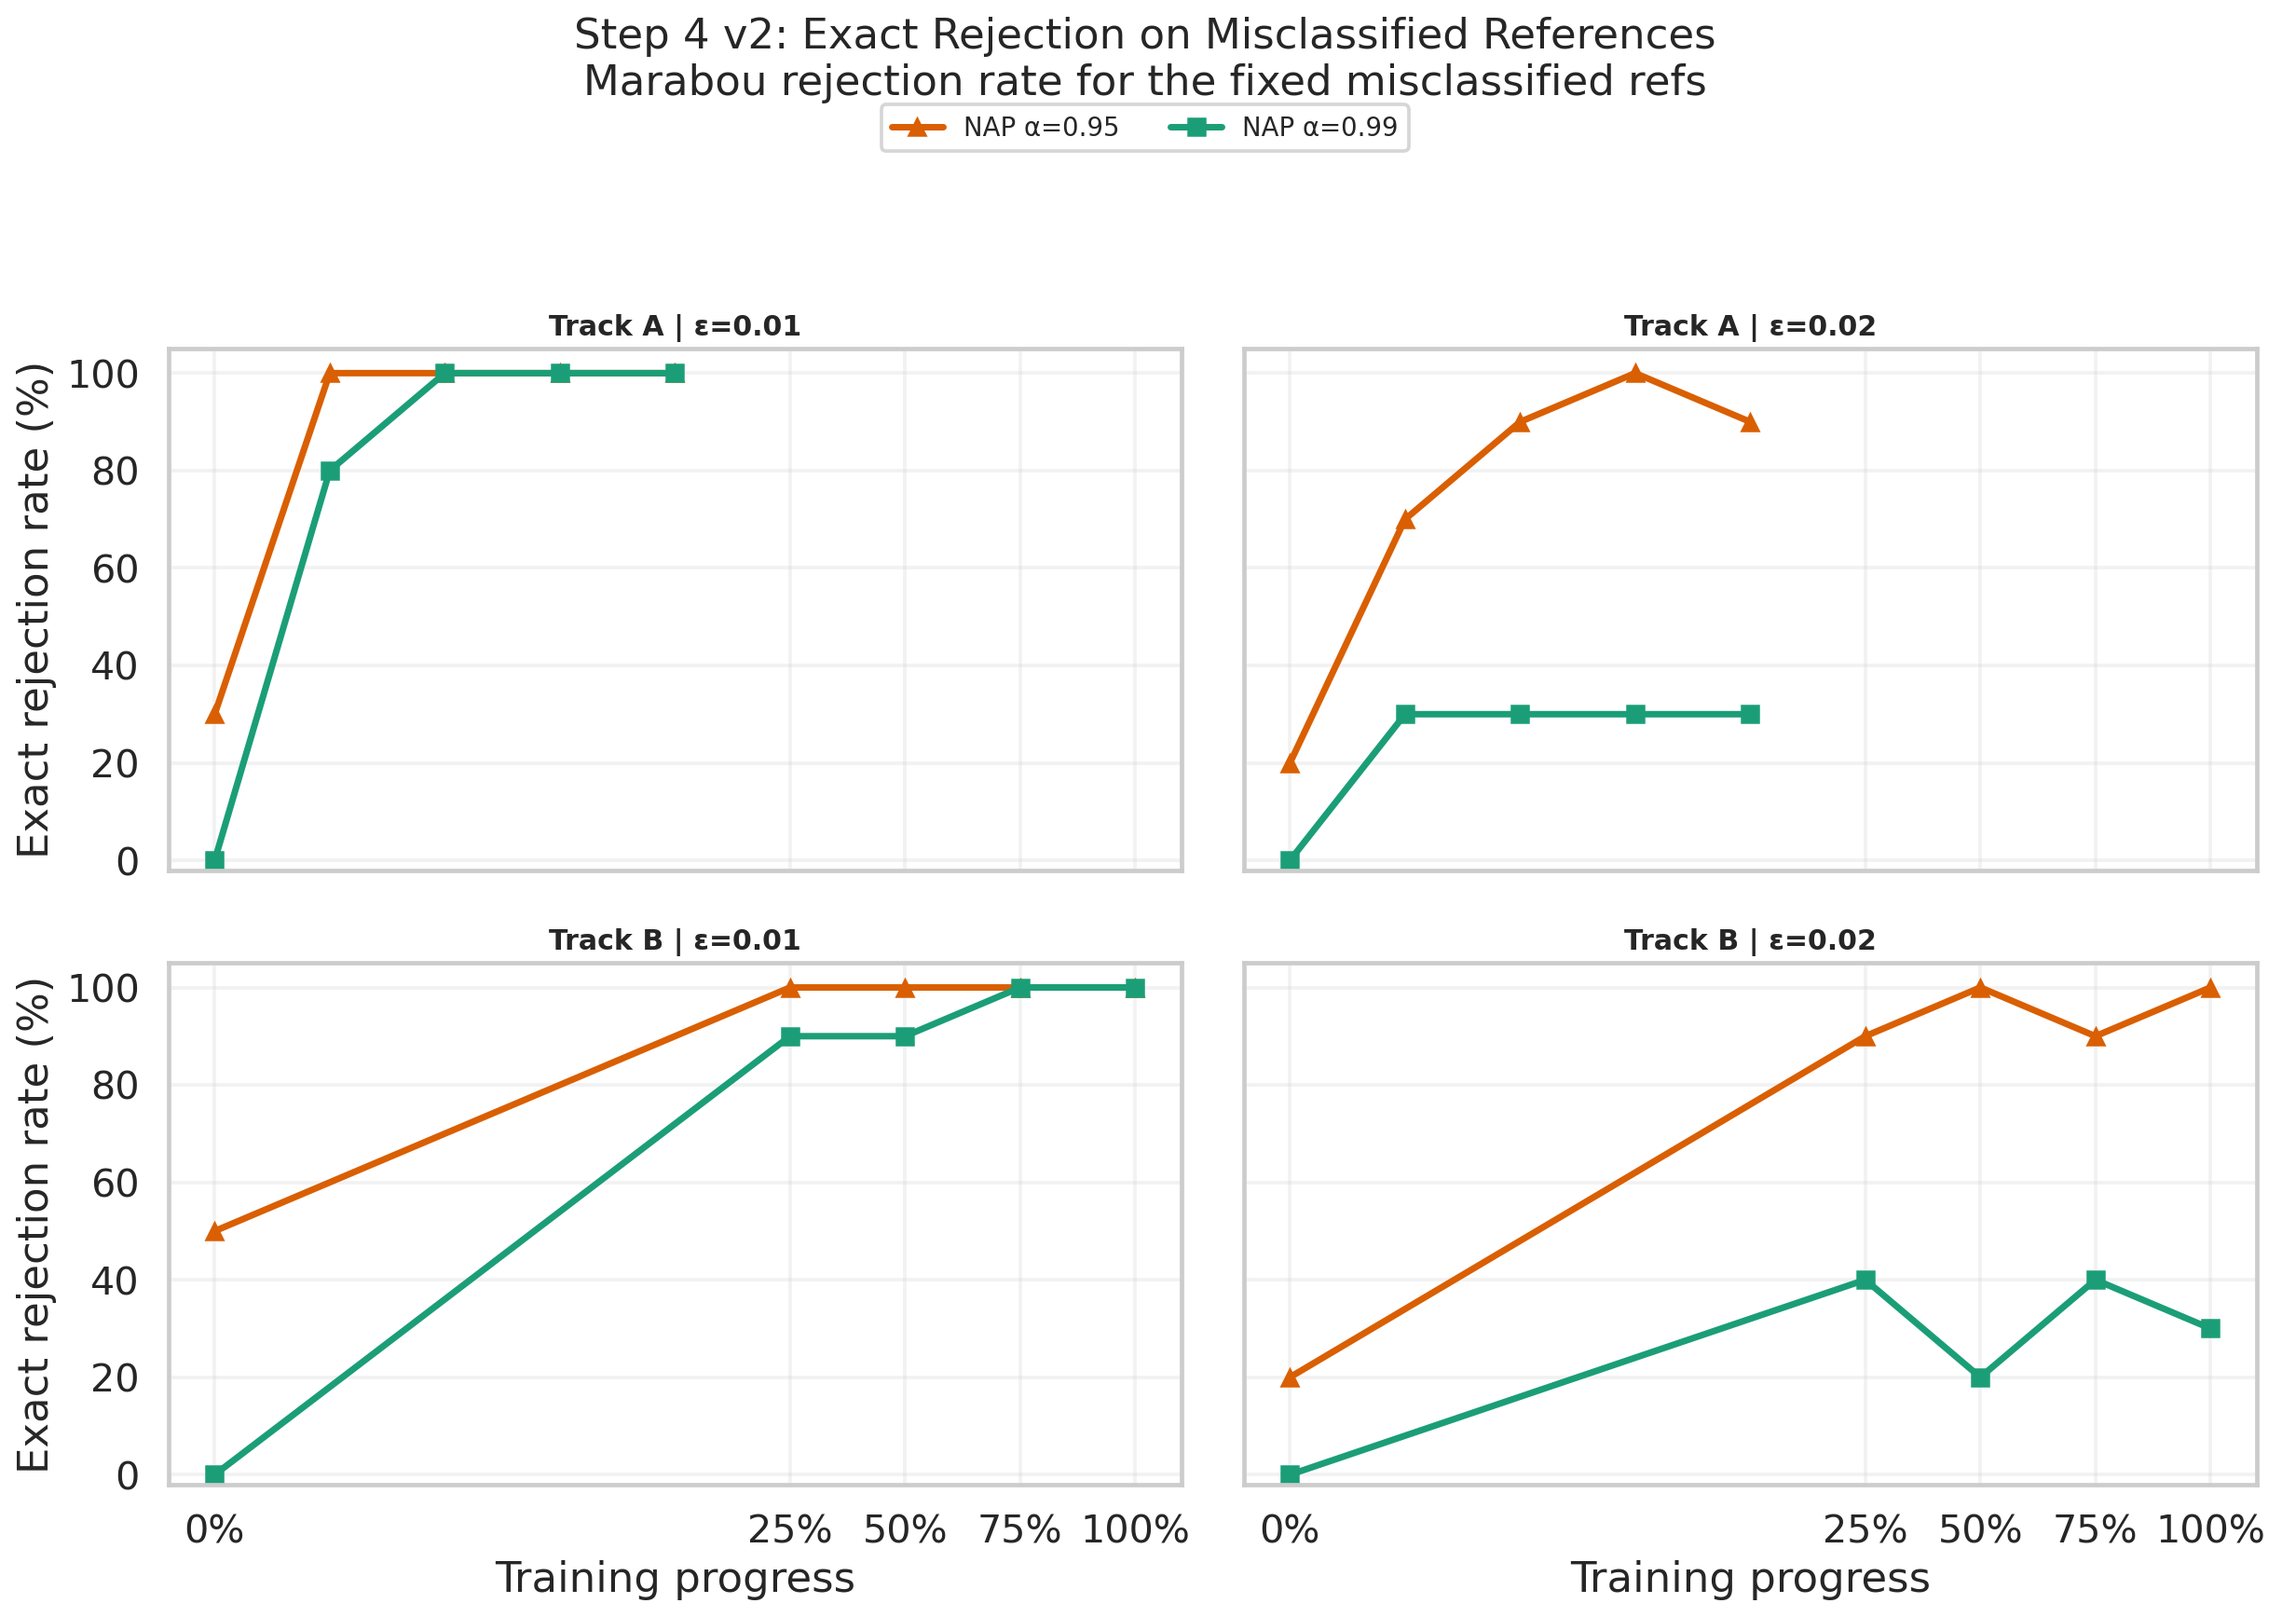
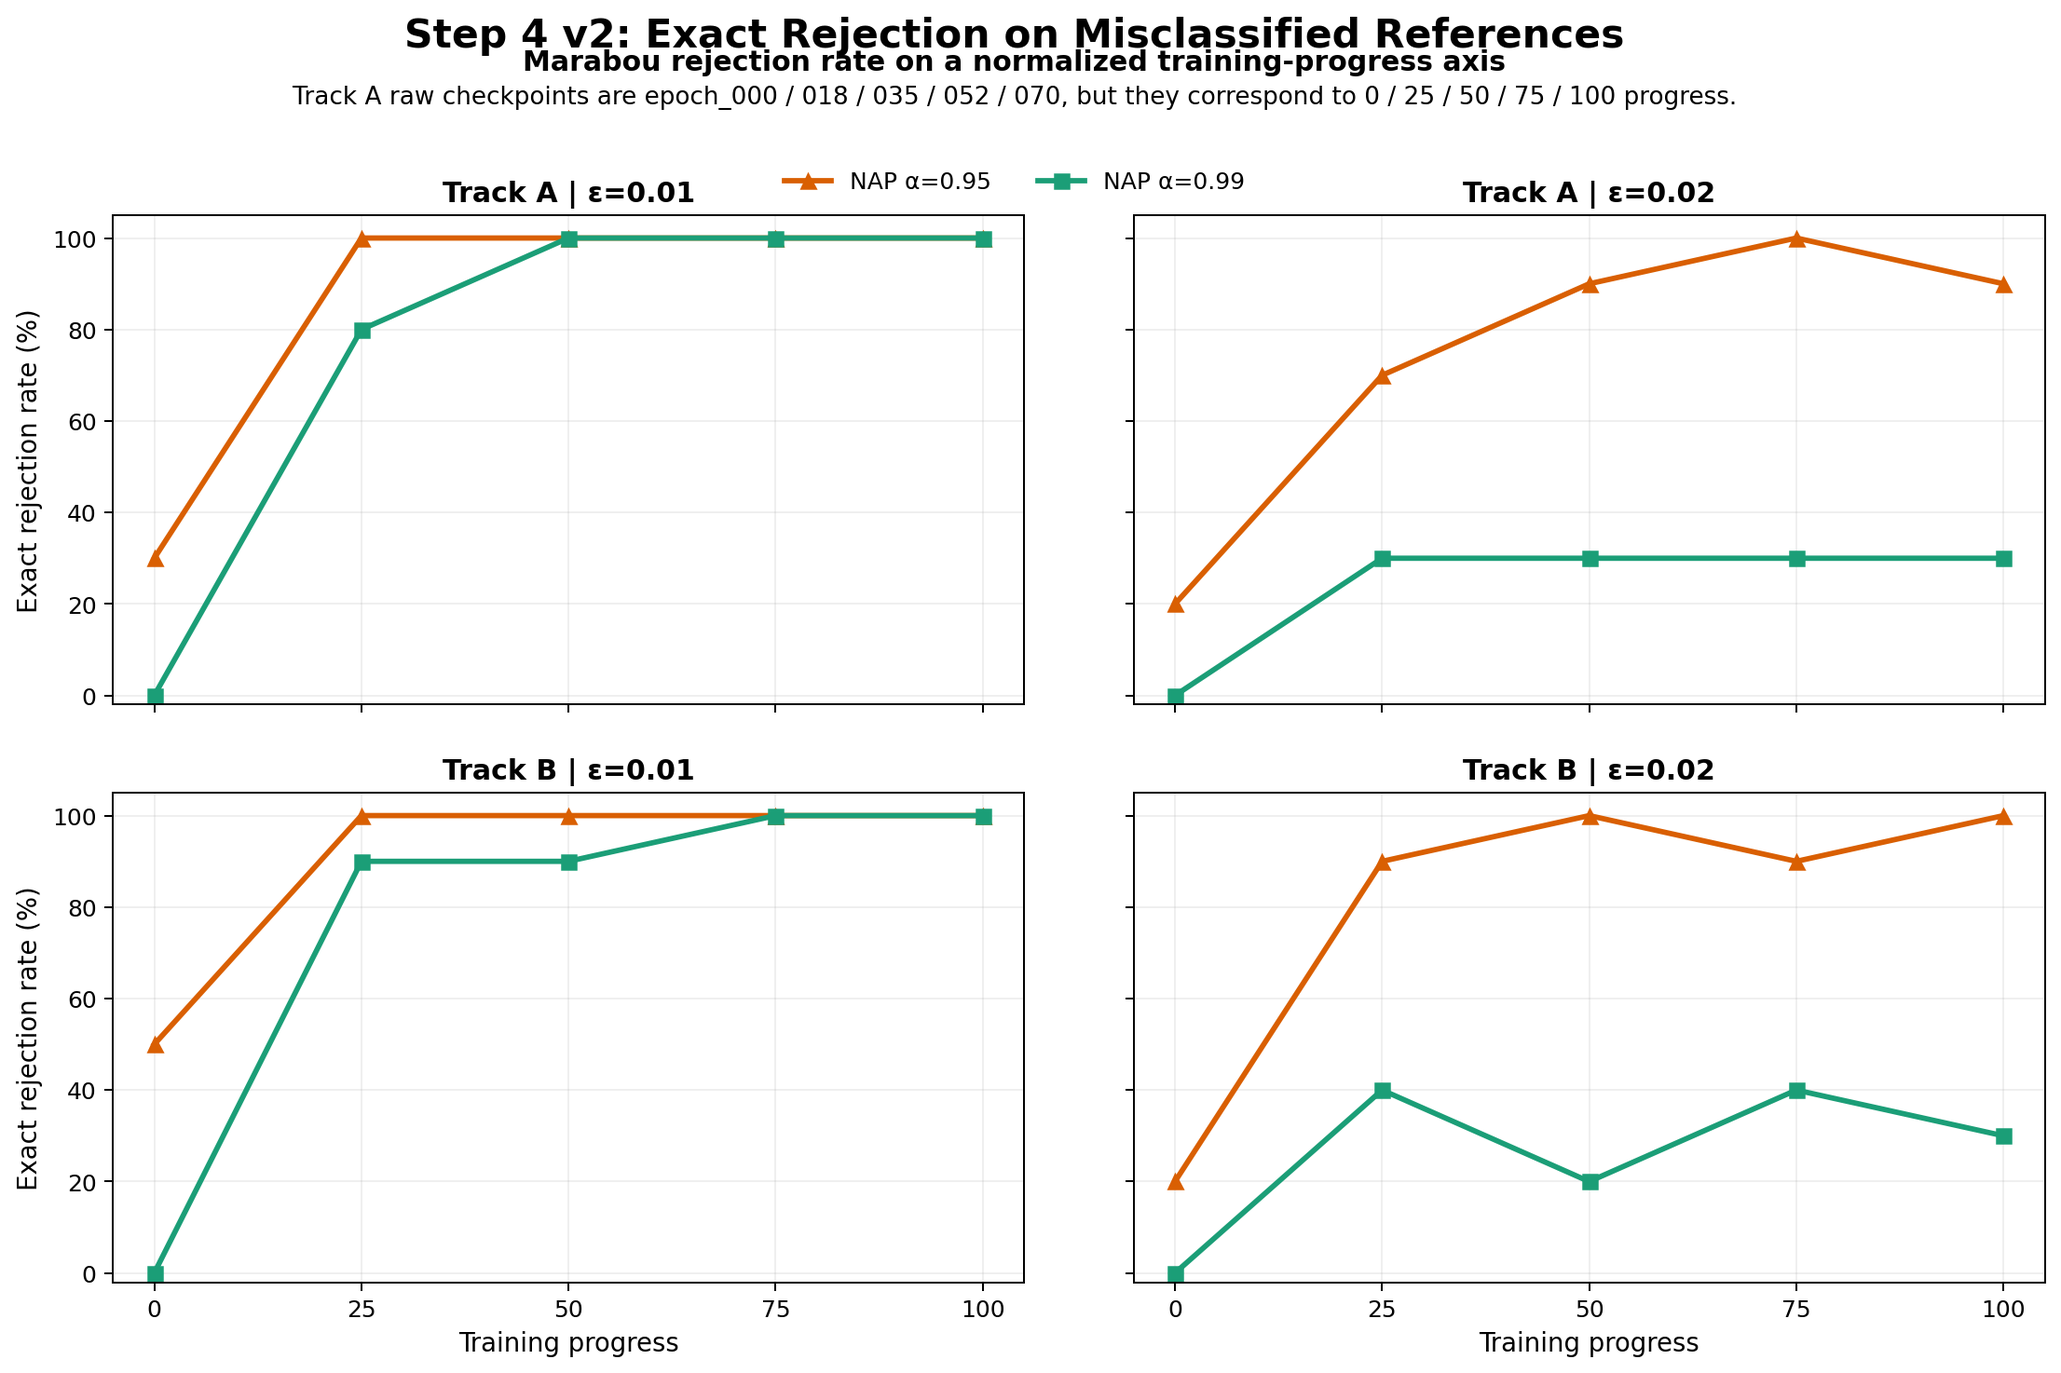
updates

diff --git a/random_to_welltrained/report.md b/random_to_welltrained/report.md
@@ -25,9 +25,9 @@ Therefore, in the story below:
 
 - Step 3 can be discussed using **Marabou exact** results;
 - Step 4 can now be discussed using both:
-  - **fixed-reference + auto_LiRPA** for the `genuine / vacuous` decomposition;
-  - **fixed-reference + Marabou exact** for the final verify / rejection trend;
-- but on the positive fixed refs, the current exact path reports only `verified`, not a separate `genuine / vacuous` split.
+  - **fixed-reference + auto_LiRPA** as a dense trend scanner for the `genuine / vacuous` structure;
+  - **fixed-reference + Marabou exact** for exact verify / genuine / rejection conclusions;
+- on the positive fixed refs, `step4_marabou_v2` now also provides an exact semantic split, although some cells still remain `semantic_unresolved`.
 
 ## 1. Act I: What Happens During Training?
 
@@ -402,6 +402,9 @@ Data sources:
 - `generated/step4_marabou_v2/results/rejection_summary.csv`
 - `generated/step4_marabou_v2/results/rejection_all.csv`
 
+The x-axis here is the normalized training-progress axis used throughout this report.  
+So for Track A, `epoch_070` is shown at `100%`, not at raw epoch value `70`.
+
 These 400 exact rejection tasks are now complete.  
 Aggregated by `(alpha, epsilon)`, the exact results are:
 
@@ -424,82 +427,93 @@ In other words:
 
 ## 6. Act VI: What Do the Fixed References Themselves Look Like?
 
-### 6.1 First Look at the Whole Set of Fixed Refs
+### 6.1 First Look at the Whole Set of Fixed Refs Under Marabou Exact
 
-![Step4 Ref Gallery](story_step4_v2_ref_gallery_timeline.png)
+![Step4 Ref Gallery](story_step4_marabou_ref_gallery_timeline.png)
 
 Data sources:
 
 - `generated/step4_unified_v2/unified_refs.json`
-- `generated/step4_unified_v2/results/verify_all.csv`
+- `generated/step4_marabou_v2/results/verify_all.csv`
 
-This figure directly borrows the most storytelling-friendly display style from `vis_step4_claude.ipynb`:
+This keeps the same object-level display style as before, but the colored strips now come from `step4_marabou_v2`, not `step4_unified_v2`.
 
-- all 20 unified refs are shown directly as images;
-- each image has a five-segment color strip under it, corresponding to `0% → 25% → 50% → 75% → 100%`;
-- the displayed configuration is fixed to `Track A, NAP α=0.99, ε=0.01`.
+The displayed configuration is still fixed to `Track A, NAP α=0.99, ε=0.01`.
 
-Its main advantage is that the reader does **not** need to understand quantiles, IQR, or frontier epsilon first.  
-Instead, two key facts become visible immediately:
+This is important because the exact state space is now richer than the old auto_LiRPA picture:
+
+- gray: `misclassified`
+- green: exact `genuine`
+- yellow: exact `vacuous`
+- orange: exact `verified`, but the later `genuine / vacuous` split timed out
+- blue: `T/o`
+
+So the reader can still see the same 20 unified refs directly as images, but now with exact per-checkpoint states.
+
+Two key facts become visible immediately:
 
 1. Many refs are gray at `0%`.  
-   This is not a bug; it is exactly the design of `step4_unified_v2`:  
-   `epoch_000` is excluded from reference selection, but still kept during evaluation.  
-   So fixed refs are often `misclassified` at `epoch_000`.
+   This is still not a bug; it is a direct consequence of the `step4_unified_v2` selection logic:  
+   `epoch_000` is excluded from reference selection, but still kept during evaluation.
 
-2. The same ref set later splits into three different states:
-   - green: genuine verified
-   - yellow: vacuous verified
-   - red: not verified / unknown
+2. Later checkpoints no longer split only into `genuine` and `vacuous`.  
+   Some refs remain orange or blue.  
+   Orange means the exact verify stage already succeeded, but the follow-up exact `genuine / vacuous` split timed out;  
+   blue means the main exact solve itself timed out.
 
-This is much better for storytelling than the previous frontier-distribution figure, because here we can see:
+This is more faithful for a Marabou-driven Section 6 than the previous auto_LiRPA version, because here we can see:
 
 - which sample is changing;
 - at which checkpoint the change starts;
-- whether the change is genuine gain or vacuous gain.
+- whether the exact outcome is genuine, vacuous, unresolved, or timeout-limited.
 
-### 6.2 Then Look at One Single Reference in Detail
+### 6.2 Then Look at One Single Reference in Detail Under Marabou Exact
 
-![Step4 Single Ref](story_step4_v2_single_ref_deep_dive.png)
+![Step4 Single Ref](story_step4_marabou_single_ref_deep_dive.png)
 
 Data sources:
 
 - `generated/step4_unified_v2/unified_refs.json`
-- `generated/step4_unified_v2/results/verify_all.csv`
+- `generated/step4_marabou_v2/results/verify_all.csv`
 
-This figure uses `Track A, ref 6, digit 4, idx=6`.  
-It was not chosen because it is visually convenient, but because it exposes three distinct mechanisms at the same time:
+This figure now uses `Track A, ref 10, digit 6, idx=11`, and shows the same ref under **two epsilon settings**:
 
-- baseline: never truly crosses `0`, so robustness is never certified;
-- `α=0.95`: becomes vacuous from `25%` onward;
-- `α=0.99`: is vacuous at `25%`, then becomes genuinely verified from `50%` onward.
+- `ε=0.01`, where the exact semantic contrast between methods is very clean;
+- `ε=0.02`, where the same ref becomes harder, but the three methods still separate clearly.
 
-From top to bottom, the figure tells a three-layer story:
+This new version is intentionally simpler than the previous draft.
 
-1. The top-left panel shows the reference itself.  
-   This grounds the discussion in a concrete digit instead of an abstract ID.
+Instead of asking the reader to jump between a status matrix and a separate runtime curve, it puts the exact answer in two aligned tables:
 
-2. The top-middle panel shows the pixel-wise budget for `ε=0.01`.  
-   It reminds the reader that the verifier is actually working over a clipped input box in `[0,1]`, not over an abstract scalar radius alone.
+1. The left panel shows the reference image itself.  
+   This keeps the discussion anchored to one concrete sample.
 
-3. The top-right panel is a method-by-checkpoint status matrix.  
-   This turns the line plot into a state table:  
-   `mis / ? / V / Y` make it immediately visible how the same ref evolves under different methods.
+2. The upper-right table gives, for `ε=0.01`, every `(method, checkpoint)` pair:
+   - the exact verdict;
+   - the Marabou solve time;
+   - and, for NAP, the number of added rules.
 
-4. The bottom panel is the lower-bound trajectory.  
-   This is the panel that actually explains *why* a case moves from not verified to verified.  
-   For genuine points, we care about whether the `min lower bound` crosses `0`;  
-   for vacuous points, we mark them with stars instead of inventing a fake numeric value.
+3. The lower-right table gives the same layout for `ε=0.02`.  
+   This is the more difficult exact regime for the same ref, so it lets the reader compare not only semantics, but also where the solve becomes timeout-limited.
 
-This single-reference figure is better for storytelling than an aggregate curve when you want to say:
+This ref is better than the previous draft's example because it avoids collapsing the `ε=0.02` story into almost pure timeout behavior.
 
-> NAP does not only change the verified rate; it also changes *how* verification becomes true.
+More concretely, it shows:
 
-More concretely:
+- at `ε=0.01`: baseline is genuinely verified, `α=0.95` stays vacuous, and `α=0.99` becomes genuinely verified after one early unresolved cell;
+- at `ε=0.02`: baseline keeps timing out, `α=0.95` turns vacuous from `50%` onward, and `α=0.99` still reaches genuine exact certificates from `50%` onward.
 
-- sometimes it makes a previously negative lower bound become positive, yielding genuine verification;
-- sometimes it makes the local region itself become empty, yielding vacuous verification;
-- both cases are counted as `verified` in aggregate plots, but their semantics are very different.
+This is easier to read because the exact tradeoff is now local to each cell:
+
+- the reader does not need to match a point in a curve back to a status label elsewhere;
+- the runtime is attached directly to the verdict it produced;
+- and the rule count is attached directly to the NAP setting that introduced it.
+
+So the single-reference Marabou story becomes:
+
+> comparing `ε=0.01` and `ε=0.02` on the same fixed ref shows not only whether NAP verifies,  
+> but also whether the exact certificate is vacuous or genuinely non-empty,  
+> and how sharply the exact difficulty rises with epsilon.
 
 ### 6.3 Why the Original Frontier Distribution Is No Longer the Main Figure
 
@@ -518,10 +532,10 @@ But for a story-driven report, it has two problems:
    - which refs are only vacuous;
    - which exact sample changes at which checkpoint.
 
-So in this report, I removed the frontier distribution from the main narrative and replaced it with two figures closer to `vis_step4_claude.ipynb`:
+So in this report, I removed the frontier distribution from the main narrative and replaced it with two object-level exact figures:
 
-- one figure for the object-level timeline of the full fixed-ref set;
-- one figure for a deep dive into a single ref.
+- one figure for the Marabou timeline of the full fixed-ref set;
+- one figure for a Marabou deep dive into a single ref, including exact status and runtime.
 
 ## 7. Act VII: How Do the NAP Rules Themselves Change?
 
@@ -605,38 +619,16 @@ Within the current data boundary, the strongest narrative chain is:
    - continued change in rule composition and region geometry,
    - continued redistribution between genuine and vacuous verification.
 
-## 10. What We Still Must Not Overclaim
-
-There are three places where the story still has to remain disciplined:
-
-1. We must not interpret all exact Step 4 verified gains as genuine region expansion.  
-   On the positive fixed refs, `step4_marabou_v2` currently reports `verified`, but does not independently split `genuine` from `vacuous`.
-
-2. We must not directly compare absolute verified percentages between Step 3 and Step 4.  
-   Their reference bases are different:
-   - Step 3: per-checkpoint refs
-   - Step 4: fixed unified refs
-
-3. We must not claim that late-training overconfidence has already been fully proven.  
-   The safer wording is still:
-   - late training appears to involve changes in region geometry and vacuity behavior;
-   - this is compatible with an overconfidence tendency;
-   - but the current evidence is still about geometry/vacuity behavior, not a completed causal proof.
-
-## 11. What `step4_marabou_v2` Changes Now
-
-Now that `step4_marabou_v2` is complete, the most important upgrades to the story are:
-
-1. The fixed-reference trend can now be described as:
-   - `auto_LiRPA` first exposes the `genuine / vacuous` structure;
-   - `Marabou exact` then confirms that the fixed-ref trend is not an incomplete-verification illusion.
-
-2. The rejection story can now also be stated as an exact conclusion:
-   - `α=0.95` is more aggressive and rejects more strongly;
-   - `α=0.99` is more conservative, especially at `ε=0.02`, where timeouts are much more common.
-
-So the full story can now be upgraded to:
 
 > Step 3 provides the exact main result under per-checkpoint refs;  
 > Step 4 provides the methodological correction under fixed refs;  
 > and `step4_marabou_v2` now pins down that fixed-ref story with exact verification and exact rejection.
+
+
+# Notes
+
+currently is still not fully complete
+
+### Still Running
+ - The experiments with Marabou step4 v2(fixed reference samples selected started from the correct samples after 25% training progress) -> estimated done today
+ - [Queued] implications on this structure. -> estimated 3 to 4 days
